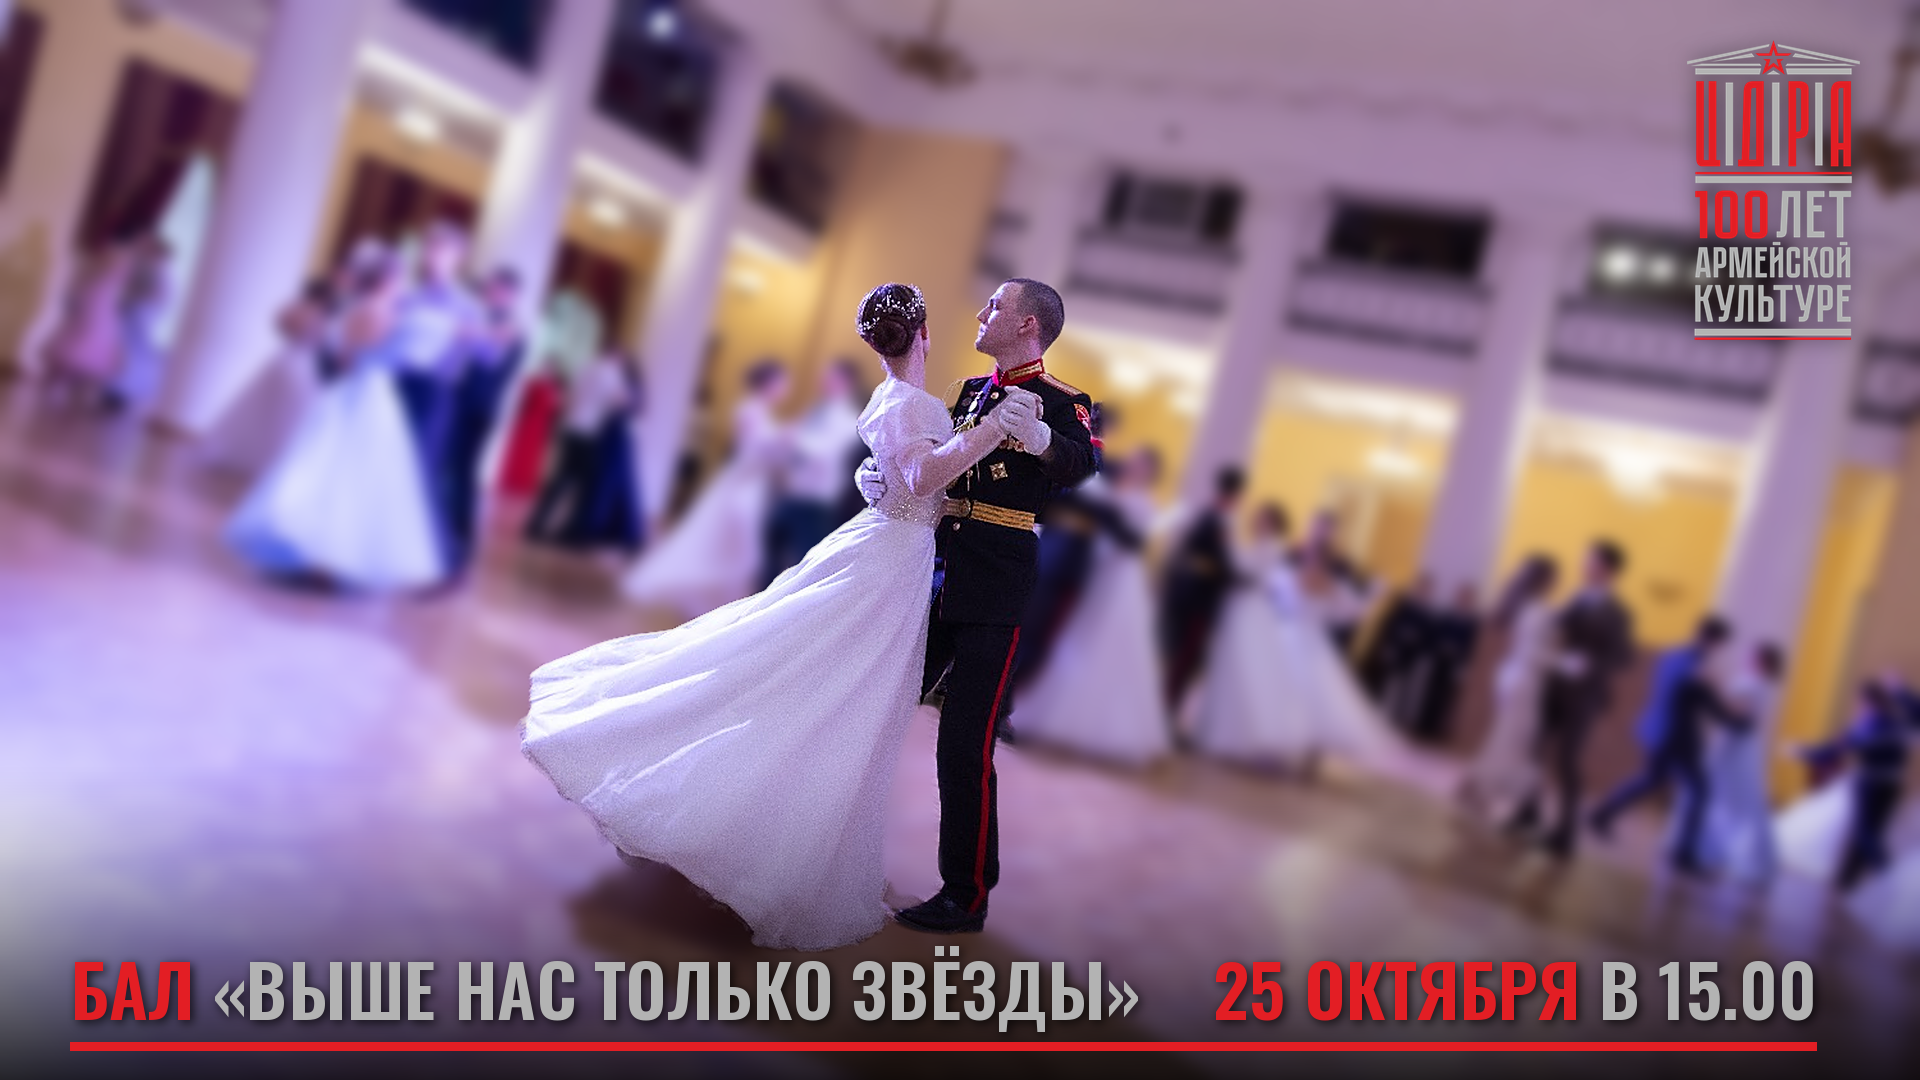
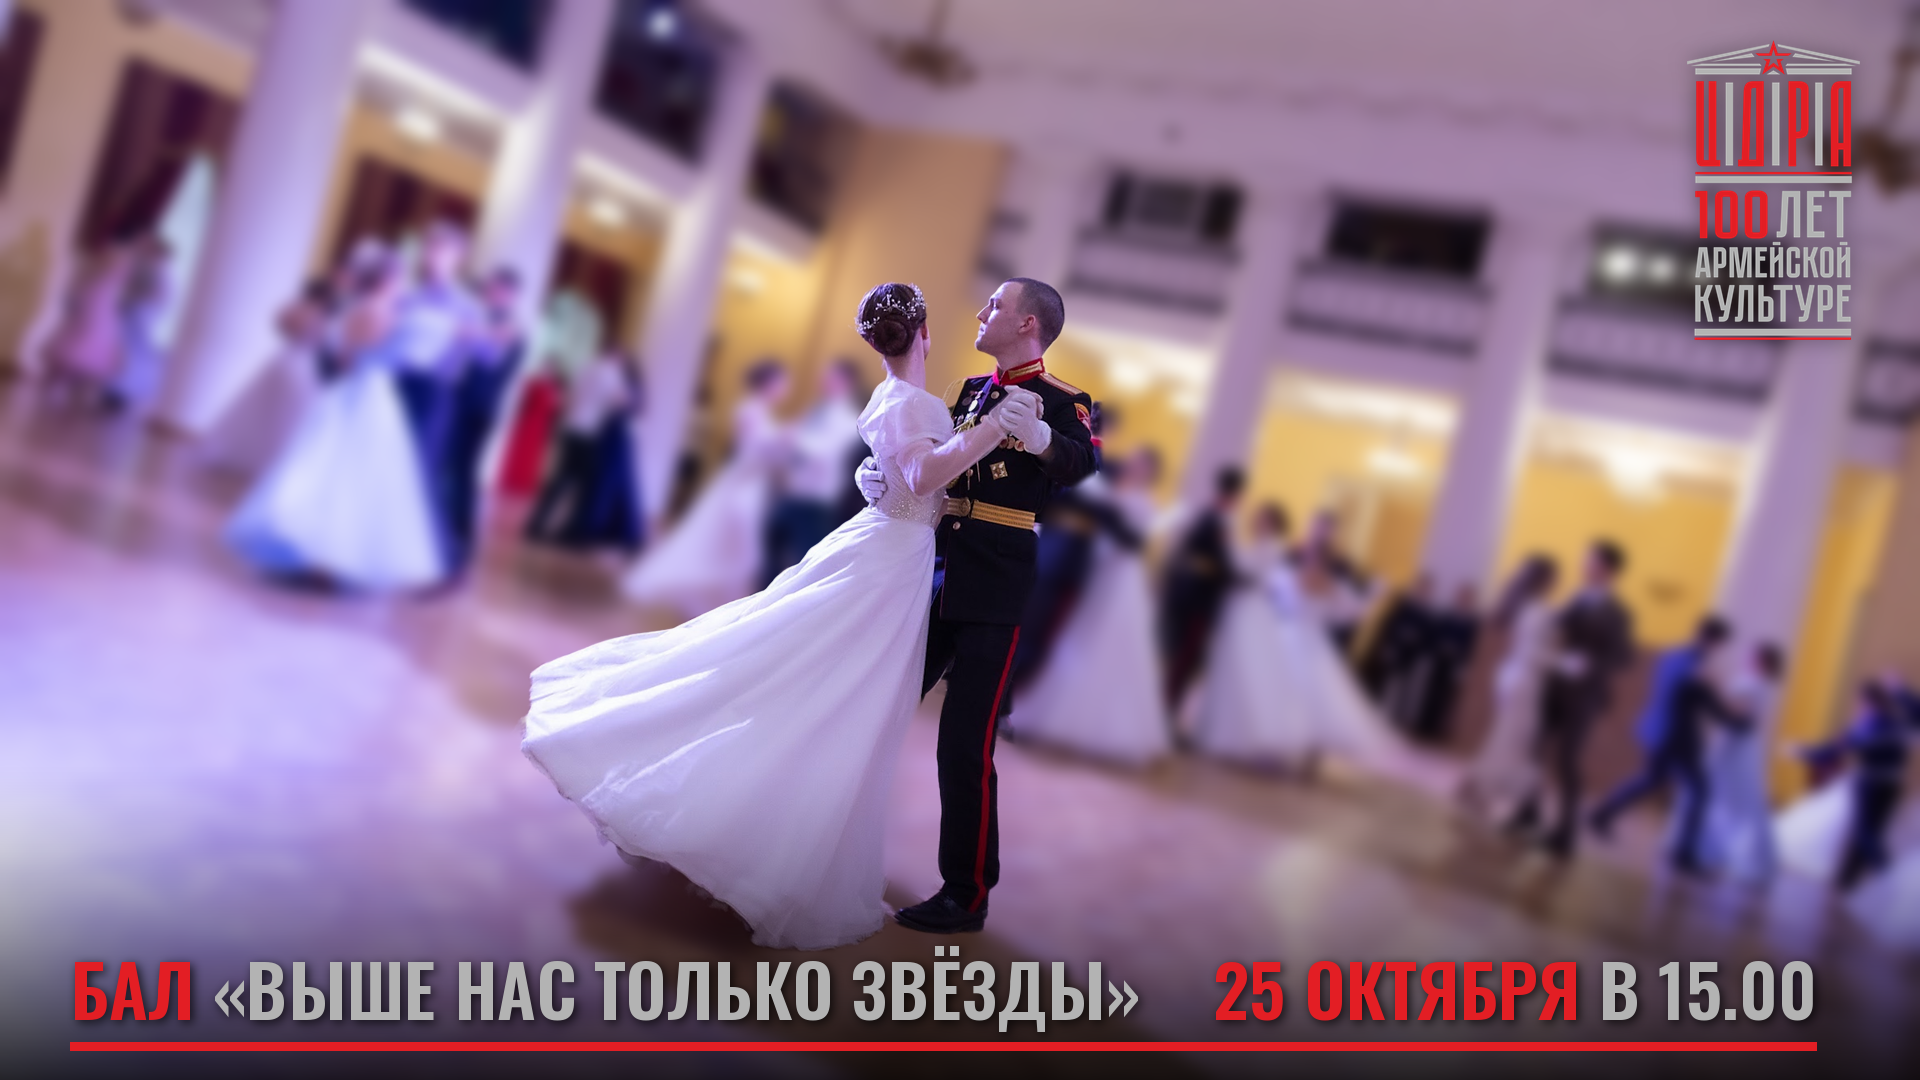
Афиша: пара с крупного скриншота оригинала, без растяжения
Claude-Session: https://claude.ai/code/session_01T1cTPKS4tv71B7wCkjdvMn

diff --git a/afisha/make_poster.py b/afisha/make_poster.py
@@ -18,45 +18,82 @@ OFFSET_Y = 190            # обрезаем сверху, чтобы внизу
 
 BLUR = 7                  # радиус размытия фона: лёгкое, но заметное
 
-# пару вырезает нейросеть rembg (isnet-general-use) на кропе вокруг неё;
-# танцоров за спиной кавалера отрезаем по линии его спины (координаты кропа)
-CROP = (370, 330, 910, 920)
+# Пара берётся с крупного скриншота оригинала (couple_hires.jpg, 1390x2000):
+# в photo.jpg (1500x1000, пришло сжатым через чат) она слишком мелкая.
+# Скриншот -> photo.jpg: подобие без поворота, найдено по SIFT-точкам (OpenCV).
+HI_SCALE, HI_DX, HI_DY = 0.431683, 388.785, 69.845
+
+
+def hi_to_canvas(x, y):
+    return (x * HI_SCALE + HI_DX) * SCALE, (y * HI_SCALE + HI_DY) * SCALE - OFFSET_Y
+
+
+def photo_to_hi(x, y):
+    return (x - HI_DX) / HI_SCALE, (y - HI_DY) / HI_SCALE
+
+
+# пару вырезает нейросеть rembg (isnet-general-use) на кропе скриншота;
+# танцоров за спиной кавалера отрезаем по линии его спины
+# (координаты — кроп photo.jpg с началом в (370, 330))
 CUT_RIGHT = [(486, 0), (489, 125), (490, 185), (470, 198), (445, 210), (440, 240),
              (440, 270), (428, 300), (420, 360), (420, 560), (432, 590)]
 # просвет пола между платьем и ногой кавалера — тоже фон
 GAP = [(349, 364), (356, 380), (359, 420), (362, 500), (357, 518), (330, 520),
        (320, 500), (321, 450), (333, 405), (344, 378)]
+HI_CROP = (0, 560, 1300, 1990)
 MASK_FILE = HERE / "couple_mask.png"
 
 
 def couple_mask():
-    """Маска пары на исходном фото 1500x1000 (кэшируется в couple_mask.png)."""
+    """Маска пары на скриншоте (кэшируется в couple_mask.png)."""
     if MASK_FILE.exists():
         return Image.open(MASK_FILE).convert("L")
     from rembg import remove, new_session
-    src = Image.open(HERE / "photo.jpg").convert("RGB")
-    seg = remove(src.crop(CROP), session=new_session("isnet-general-use"), only_mask=True)
-    w, h = seg.size
-    keep = Image.new("L", (w, h), 0)
-    ImageDraw.Draw(keep).polygon([(0, 0)] + CUT_RIGHT + [(0, h)], fill=255)
-    ImageDraw.Draw(keep).polygon(GAP, fill=0)
+    hi = Image.open(HERE / "couple_hires.jpg").convert("RGB")
+    seg = remove(hi.crop(HI_CROP), session=new_session("isnet-general-use"), only_mask=True)
+    keep = Image.new("L", seg.size, 0)
+    to_crop = lambda pts: [tuple(np.subtract(photo_to_hi(x + 370, y + 330), HI_CROP[:2]))
+                           for x, y in pts]
+    cut = to_crop(CUT_RIGHT)
+    ImageDraw.Draw(keep).polygon([(0, -2000)] + [(cut[0][0], -2000)] + cut + [(0, 3000)], fill=255)
+    ImageDraw.Draw(keep).polygon(to_crop(GAP), fill=0)
     seg = Image.fromarray(np.minimum(np.asarray(seg), np.asarray(
-        keep.filter(ImageFilter.GaussianBlur(2)))))
-    full = Image.new("L", src.size, 0)
-    full.paste(seg, CROP[:2])
+        keep.filter(ImageFilter.GaussianBlur(4)))))
+    full = Image.new("L", hi.size, 0)
+    full.paste(seg, HI_CROP[:2])
     full.save(MASK_FILE)
     return full
+
+
+def place_hires(img):
+    """Скриншот (или его маску) в координаты афиши: уменьшение, а не растяжение."""
+    x0, y0 = hi_to_canvas(0, 0)
+    k = HI_SCALE * SCALE
+    small = img.resize((round(img.width * k), round(img.height * k)), Image.LANCZOS)
+    out = Image.new(img.mode, (W, H), 0)
+    out.paste(small, (round(x0), round(y0)))
+    return out
+
+
+def match_colors(img, ref, mask):
+    """Скриншот светлее и бледнее оригинала: подгоняем каналы линейно по паре."""
+    sel = np.asarray(mask) > 200
+    a, r = np.asarray(img, np.float32), np.asarray(ref, np.float32)
+    out = np.empty_like(a)
+    for c in range(3):
+        k, b = np.polyfit(a[..., c][sel], r[..., c][sel], 1)
+        out[..., c] = a[..., c] * k + b
+    return Image.fromarray(np.clip(out, 0, 255).astype(np.uint8))
 
 
 def photo_layer():
     src = Image.open(HERE / "photo.jpg").convert("RGB")
     big = src.resize((W, round(1000 * SCALE)), Image.LANCZOS)
     sharp = big.crop((0, OFFSET_Y, W, OFFSET_Y + H))
-    # фото увеличено в 1.28 раза — возвращаем паре резкость исходника
-    crisp = sharp.filter(ImageFilter.UnsharpMask(radius=1.6, percent=70, threshold=2))
-
-    hard = couple_mask().resize((W, round(1000 * SCALE)), Image.LANCZOS)
-    hard = hard.crop((0, OFFSET_Y, W, OFFSET_Y + H))
+    couple = place_hires(Image.open(HERE / "couple_hires.jpg").convert("RGB"))
+    hard = place_hires(couple_mask())
+    couple = match_colors(couple, sharp, hard)
+    couple = couple.filter(ImageFilter.UnsharpMask(radius=1.0, percent=45, threshold=3))
 
     keep = 1 - np.asarray(hard.point(lambda v: 255 if v > 20 else 0).filter(ImageFilter.MaxFilter(9)), np.float32) / 255
     rgb = np.asarray(sharp, np.float32)
@@ -74,8 +111,8 @@ def photo_layer():
     den = blur(keep, BLUR)[..., None]
     blurred = Image.fromarray(np.clip(num / np.maximum(den, 1e-3), 0, 255).astype(np.uint8))
 
-    mask = hard.filter(ImageFilter.GaussianBlur(1.2))
-    return Image.composite(crisp, blurred, mask)
+    mask = hard.filter(ImageFilter.GaussianBlur(0.8))
+    return Image.composite(couple, blurred, mask)
 
 
 def bottom_shade(img):
